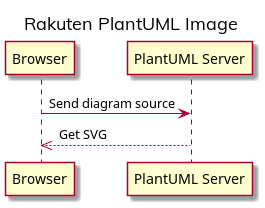
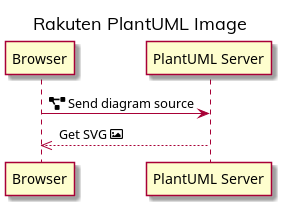
added font awesome to the example diagram

diff --git a/README.md b/README.md
@@ -13,11 +13,14 @@ The differences with [plantuml/plantuml-server](https://hub.docker.com/r/plantum
   - **[Mulish](https://fonts.google.com/specimen/Mulish)** is installed and poses as the **Rakuten Sans** font, which it is visually similar to (and a decent fallback for when generating PNG diagrams).
   - **[Noto Sans](https://fonts.google.com/specimen/Noto+Sans)** and [Noto Sans JP](https://fonts.google.com/specimen/Noto+Sans+JP), recommended by the [ReX typography guidelines](http://rex.public.rakuten-it.com/design/the-basics/typography/). **Noto Sans** is set as the default `sans-serif` font.
   - **[Fira Code](https://fonts.google.com/specimen/Fira+Code)**, set as the default `monospace` font.
+  - **[Font Awesome 5 Free](https://fontawesome.com/)**.
 
 ## Usage
 
 ```plantuml
 @startuml
+!define FA(x) <font:Font Awesome 5 Free><U+x></font>
+
 skinparam defaultFontName "Noto Sans"
 skinparam titleFontName "Rakuten Sans"
 
@@ -26,8 +29,8 @@ title Rakuten PlantUML Image
 participant Browser
 participant "PlantUML Server" as PlantUML
 
-Browser -> PlantUML: Send diagram source
-Browser <<-- PlantUML: Get SVG
+Browser -> PlantUML: FA(f542) Send diagram source
+Browser <<-- PlantUML: Get SVG FA(f03e)
 @enduml
 ```
 
